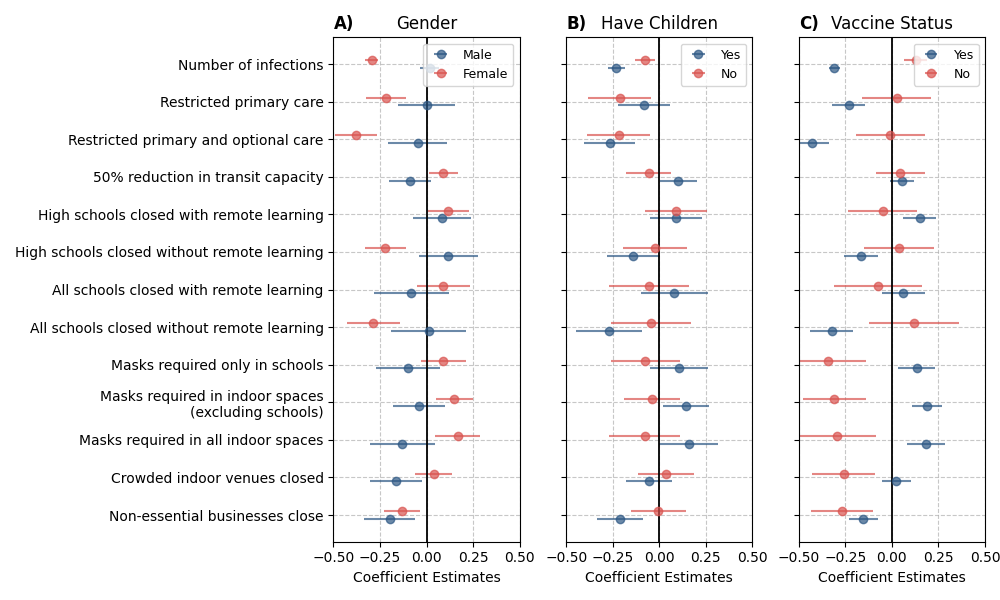
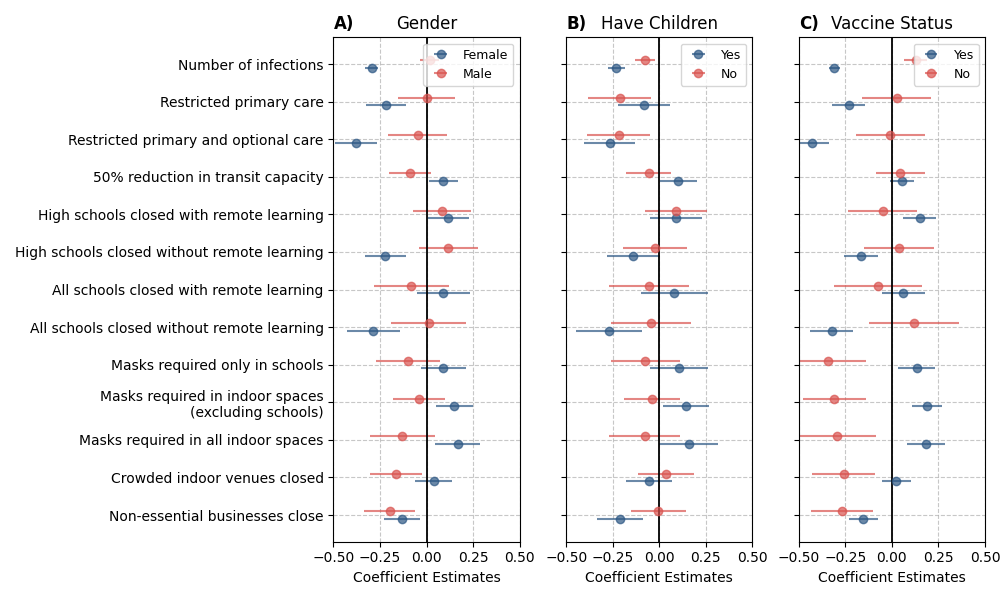
dealt with missing labels

diff --git a/support/func_support.py b/support/func_support.py
@@ -34,12 +34,21 @@ def get_wtas_and_errs(table, attribute_keys):
     return wtas, errs
 
 
+def update_table_to_include_all_subgroups(table, subgroup_categories):
+    """ Update the table to include all subgroups """
+
+    table.index = [idx if any(item in idx for item in subgroup_categories)
+                   else idx+'_'+subgroup_categories[0] for idx in table.index]
+
+    return table
+
+
 def get_dict_estimates_and_errs_by_subgroups(
         survey_scenario, subgroup_name, subgroup_categories, attribute_keys, estimate_type):
     """ Get coefficient estimates and errors for subgroups
     : param survey_scenario: (string) 'vaccine' or 'no vaccine'
-    : param subgroup_name: (string) name of the subgroup
-    : param subgroup_categories: (list) list of subgroup categories
+    : param subgroup_name: (string) name of the subgroup (gender, race, etc.)
+    : param subgroup_categories: (list) list of subgroup categories (['Male', 'Female'])
     : param attribute_keys: (list) list of attribute keys
     : param estimate_type: (string) 'coeff' or 'wta'
     """
@@ -52,6 +61,9 @@ def get_dict_estimates_and_errs_by_subgroups(
             'estimates/results_{}_vaccine.csv'.format(subgroup_name), if_drop_infection_rate=False)
     else:
         raise ValueError('Invalid survey scenario')
+
+    # update the table to include all subgroups
+    table = update_table_to_include_all_subgroups(table, subgroup_categories)
 
     # dictionaries
     estimates, errs = {}, {}

diff --git a/row_of_subgroups.py b/row_of_subgroups.py
@@ -8,8 +8,8 @@ subgroup_info = {
     'gender':
         {
             'title': 'Gender',
-            'group_categories': ['Male', 'Female'],
-            'legend_labels': ['Male', 'Female'],
+            'group_categories': ['Female', 'Male'],
+            'legend_labels': ['Female', 'Male'],
             'group_colors': ['#2C5784', '#D9534F'],
             'dist_between_bars': 0.2
         },
